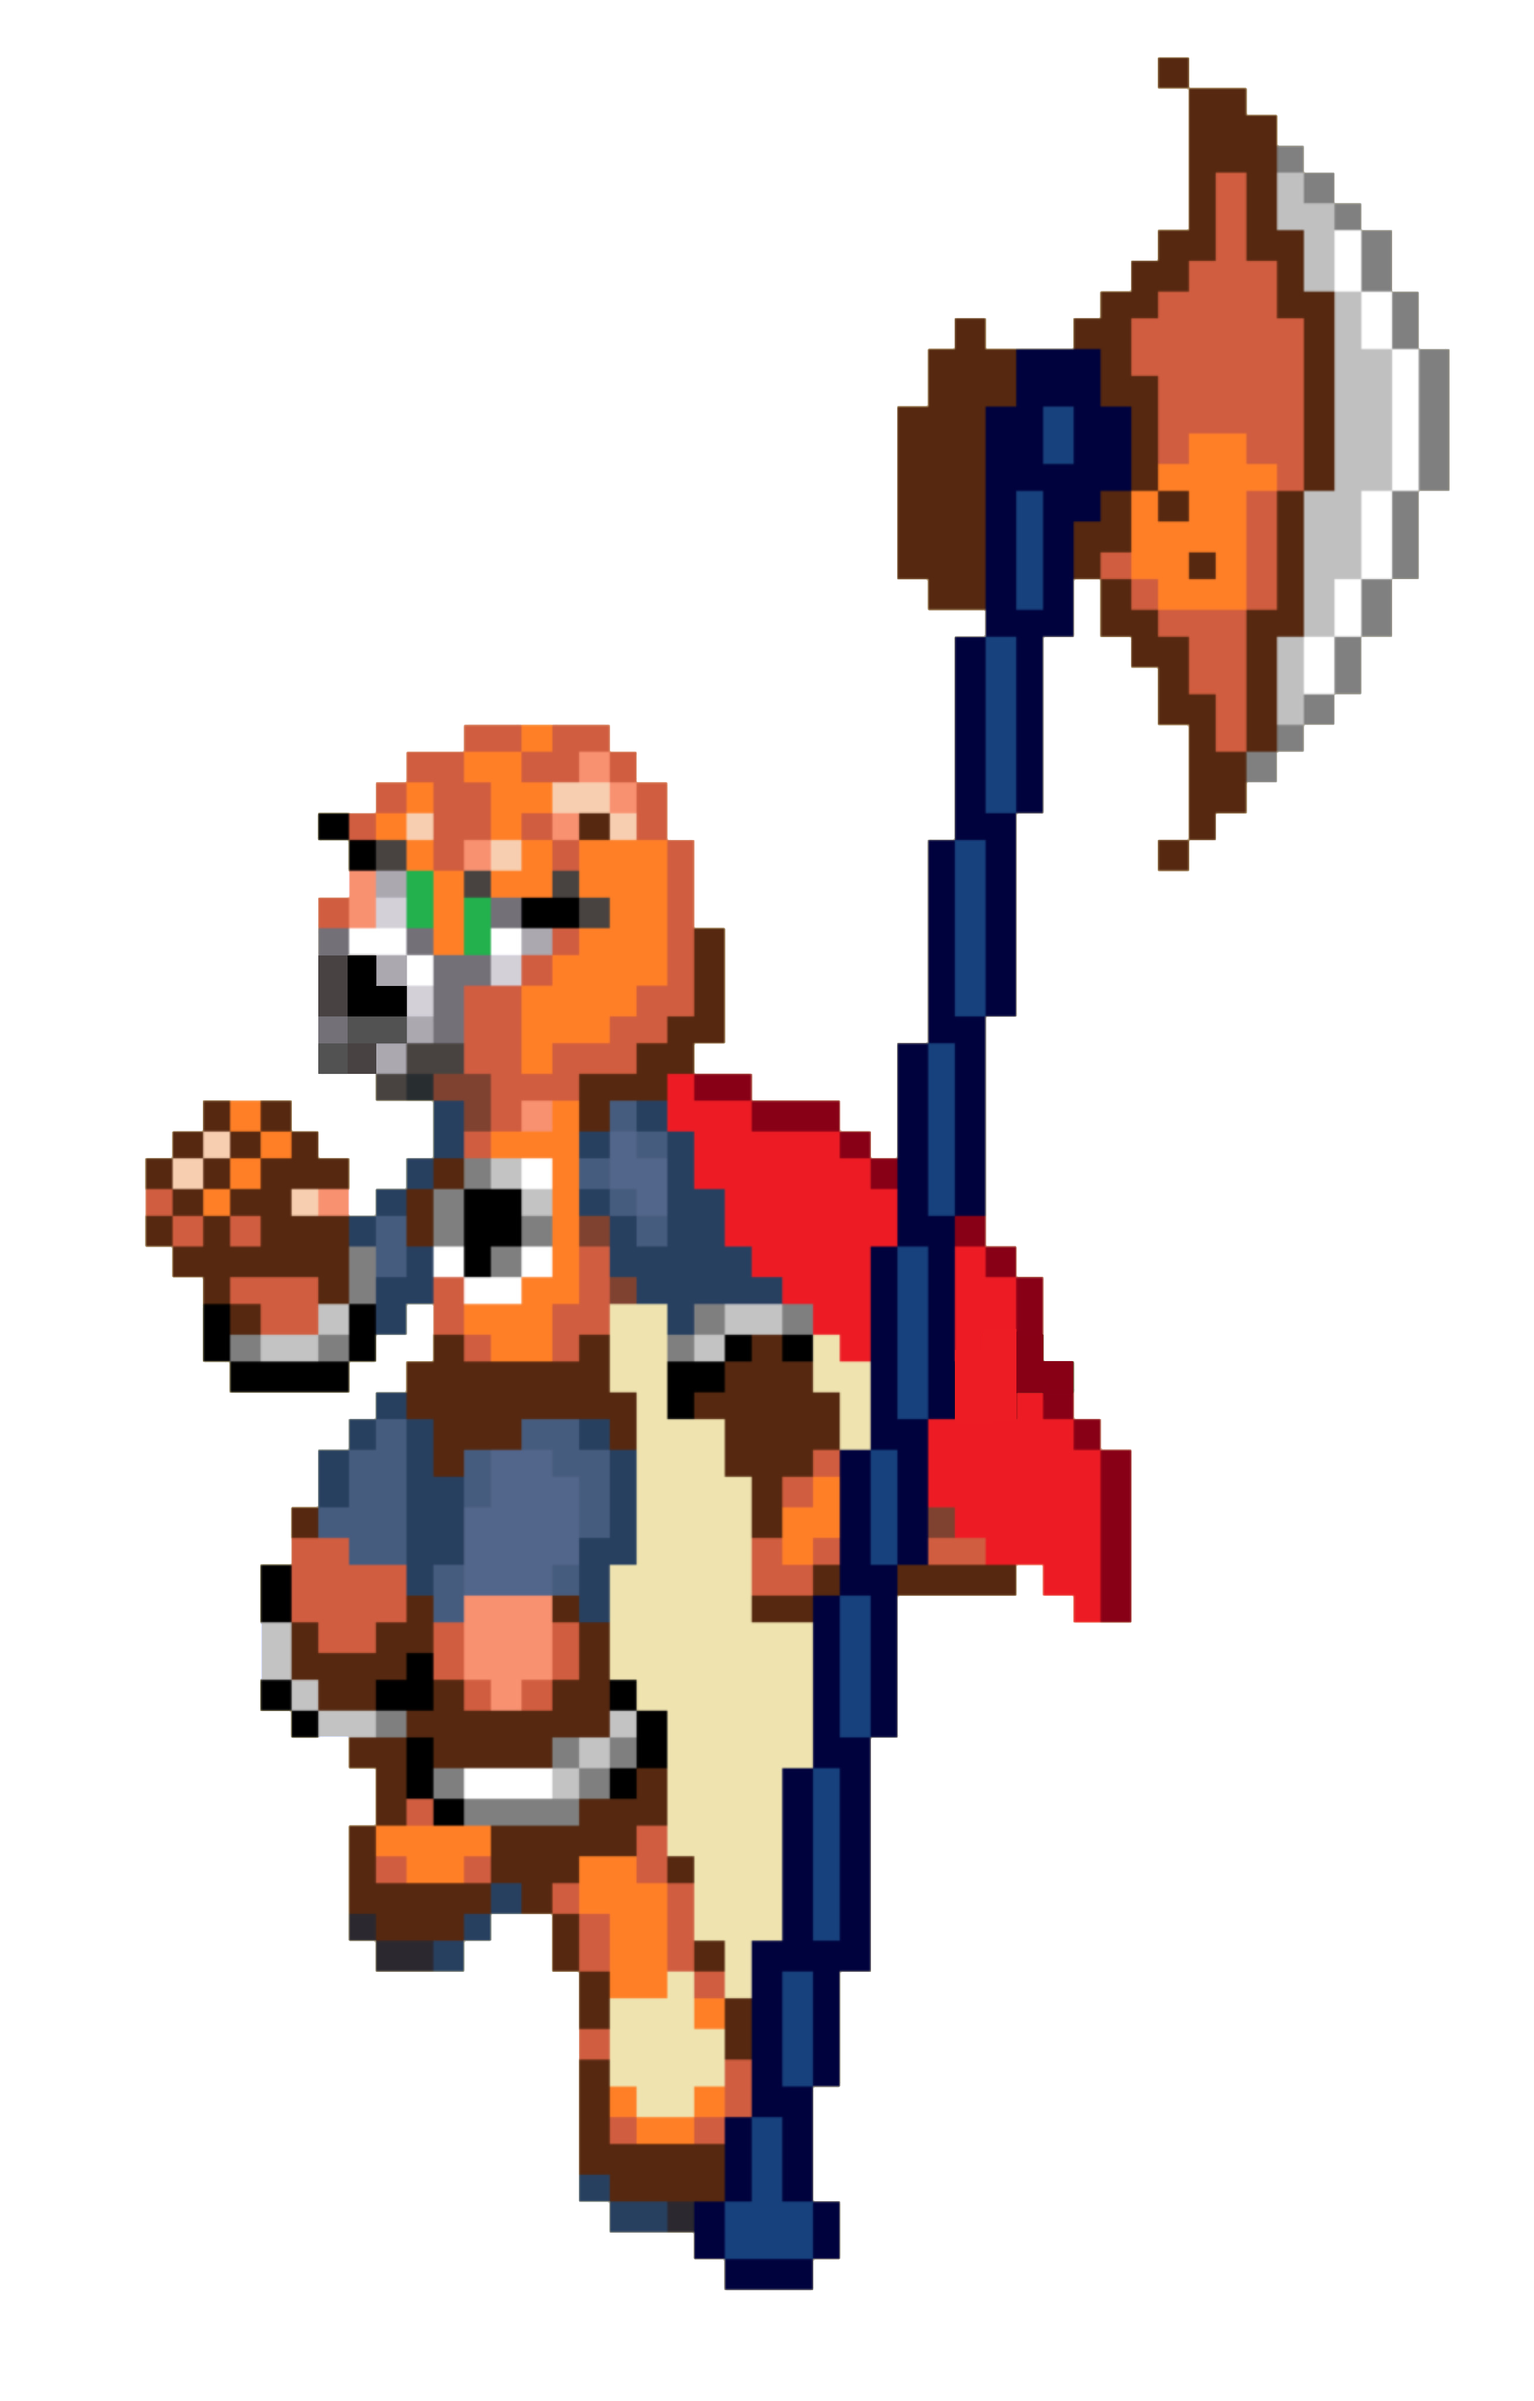
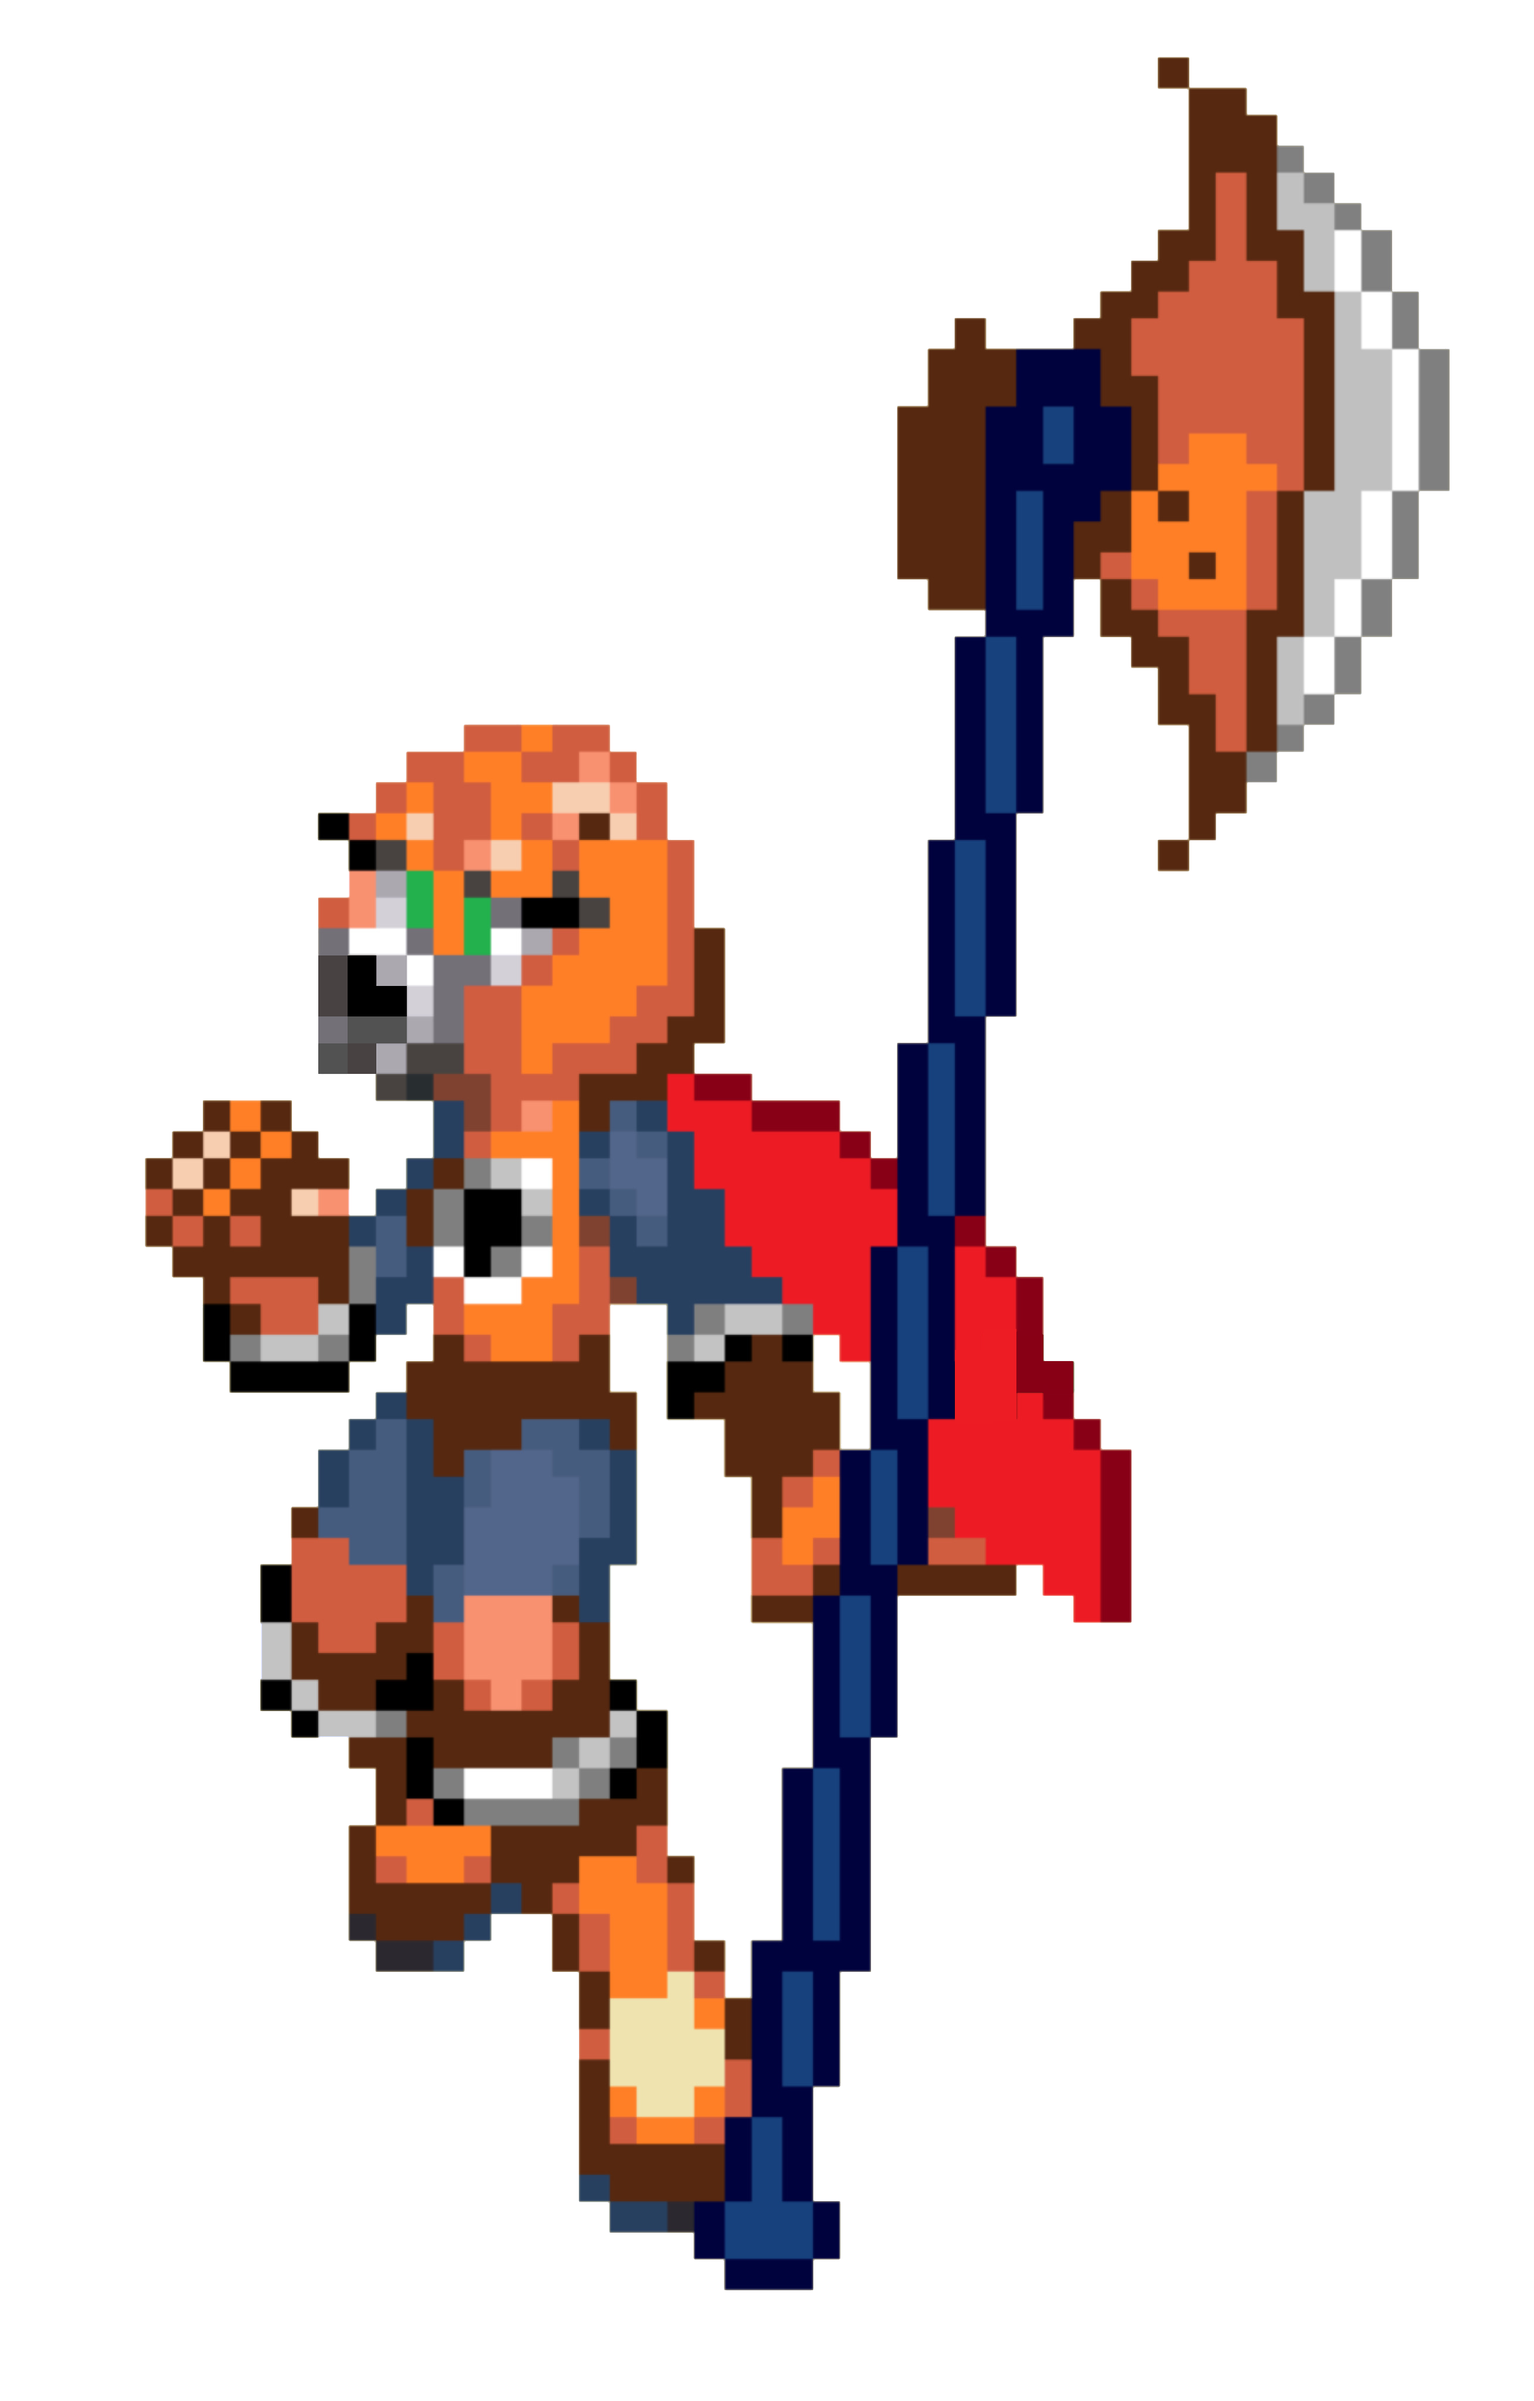
Se quita también el color de fondo dentro del contorno de los rangers violeta y naranja
Después del commit anterior seguía quedando, dentro de la silueta, pintura del
mismo color que el fondo original: la tela lavanda del violeta y la túnica
crema del naranja (regiones de color plano idéntico al fondo, encerradas por
el contorno del personaje).

- Se hacen transparentes esas regiones en axem-ranger-violet.png y
  axem-ranger-orange.png, y se des-mezcla el antialias que queda pegado a ellas
  para que no aparezca halo.
- Se conserva a propósito el brillo de la bota (zona x 1041-1235, y 3364-3611
  del PNG de 2617x4096).
- Los demás tonos claros del arte (grises, piel, rosa y lavanda de manos y
  botas) no se tocan: no son el color de fondo.
- rangerSprites.test.js: nueva prueba que verifica que no quede ningún píxel
  opaco con el color de fondo original fuera del brillo de la bota.
- README: se actualiza la nota de transparencia.

Claude-Session: https://claude.ai/code/session_01UqzW8Gb6XZJSWugcrwvzdf

Changed region(s): [[0.3714, 0.5312, 0.5571, 0.8438], [0.5262, 0.5312, 0.5881, 0.625]]

diff --git a/src/infrastructure/assets/rangerSprites.test.js b/src/infrastructure/assets/rangerSprites.test.js
@@ -6,6 +6,17 @@ import { RANGER_IDS } from '../../domain/rangers/rangerCatalog.js';
 const spriteUrl = (rangerId) =>
   fileURLToPath(new URL(`../../../art/source/axem-ranger-${rangerId}.png`, import.meta.url));
 
+// Color plano del fondo original de cada PNG. Ningún píxel opaco puede conservarlo
+// (ni fuera ni dentro del contorno del personaje), salvo el brillo de la bota.
+const ORIGINAL_BACKGROUND = Object.freeze({
+  [RANGER_IDS.VIOLET]: [199, 191, 230],
+  [RANGER_IDS.ORANGE]: [239, 227, 175],
+});
+const BACKGROUND_TOLERANCE = 12;
+
+// Zona del brillo de la bota (px del PNG de 2617x4096), que se conserva a propósito.
+const BOOT_SHINE = Object.freeze({ top: 3364, bottom: 3611, left: 1041, right: 1235 });
+
 async function readRgba(path) {
   const { data, info } = await sharp(path).ensureAlpha().raw().toBuffer({ resolveWithObject: true });
   return { data, width: info.width, height: info.height };
@@ -37,6 +48,27 @@ describe('Sprites base de los rangers (violeta y naranja)', () => {
       const total = width * height;
       expect(transparent / total).toBeGreaterThan(0.5);
       expect(opaque / total).toBeGreaterThan(0.1);
+    });
+
+    it(`axem-ranger-${rangerId}.png no conserva el color de fondo dentro del contorno (salvo el brillo de la bota)`, async () => {
+      const { data, width, height } = await readRgba(spriteUrl(rangerId));
+      const [bgRed, bgGreen, bgBlue] = ORIGINAL_BACKGROUND[rangerId];
+      const limitSquared = BACKGROUND_TOLERANCE * BACKGROUND_TOLERANCE;
+
+      let leftovers = 0;
+      for (let y = 0; y < height; y++) {
+        const inBootRows = y >= BOOT_SHINE.top && y <= BOOT_SHINE.bottom;
+        for (let x = 0; x < width; x++) {
+          if (inBootRows && x >= BOOT_SHINE.left && x <= BOOT_SHINE.right) continue;
+          const offset = (y * width + x) * 4;
+          if (data[offset + 3] === 0) continue;
+          const red = data[offset] - bgRed;
+          const green = data[offset + 1] - bgGreen;
+          const blue = data[offset + 2] - bgBlue;
+          if (red * red + green * green + blue * blue <= limitSquared) leftovers += 1;
+        }
+      }
+      expect(leftovers).toBe(0);
     });
   }
 });

diff --git a/README.md b/README.md
@@ -115,7 +115,10 @@ se generan por código en `infrastructure/graphics/FxTextureFactory.js`, junto c
 - `art/source/`: **los sprites del juego**. Vite los importa directamente y, al preparar las texturas base y las hojas de animación, el juego elimina automáticamente el fondo plano o casi uniforme conectado a los bordes y conserva el canal alfa. Así los fondos de las imágenes no se dibujan en el menú, las fichas de selección, las cinemáticas ni el combate. Para mejores resultados, subí PNG con fondo uniforme y el personaje separado de los bordes:
   no hay copias en `public/`. La pose base de cada personaje es `art/source/axem-ranger-<ranger>.png`.
   Los PNG de `axem-ranger-violet.png` y `axem-ranger-orange.png` ya incluyen **transparencia real
-  (canal alfa) en todo el fondo**; `rangerSprites.test.js` verifica que el contorno siga transparente.
+  (canal alfa) en todo el fondo**, incluido el que quedaba dentro del contorno del personaje
+  (la tela lavanda del violeta y la túnica crema del naranja); solo se conserva el brillo de la bota.
+  `rangerSprites.test.js` verifica que el contorno siga transparente y que no queden píxeles del
+  color de fondo en el interior.
 - Esos PNG miden 2617×4096 pero son pixel art de 53×83 ampliado. Al cargar, el juego toma un píxel por
   celda de esa cuadrícula (`nativeSize` en `characterAnimationData.js`) y los dibuja 1:1.
 - Los escenarios se dibujan por código en `infrastructure/graphics/StageTextureFactory.js` y
